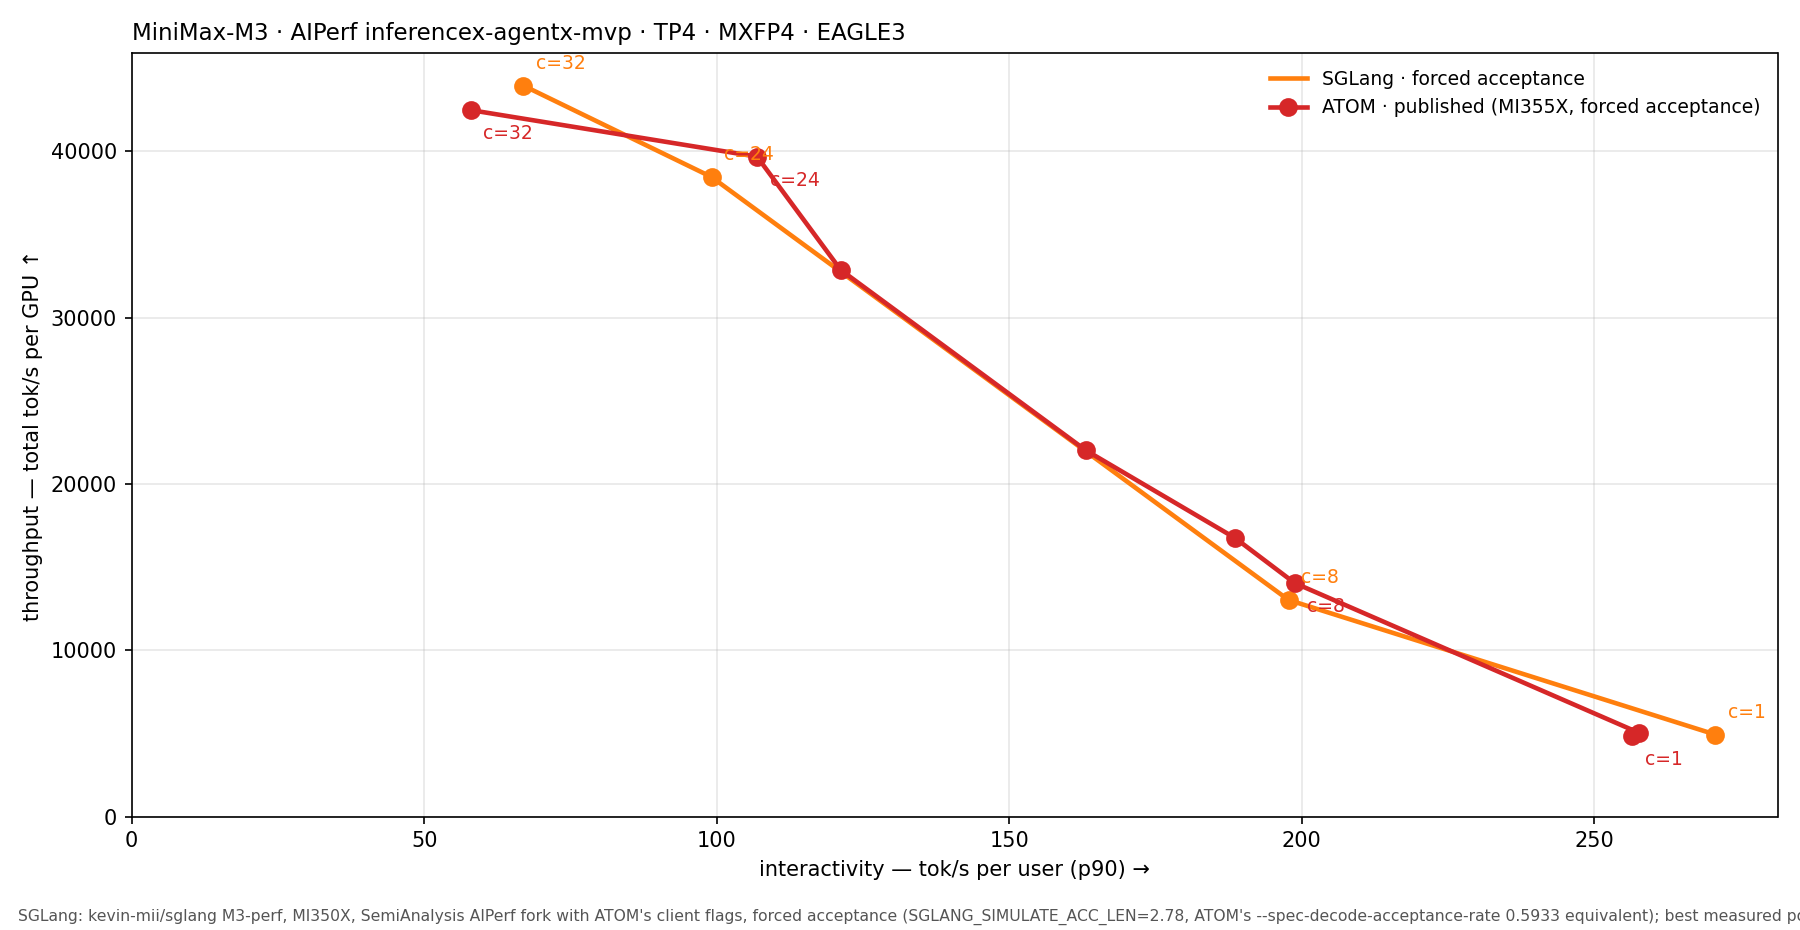
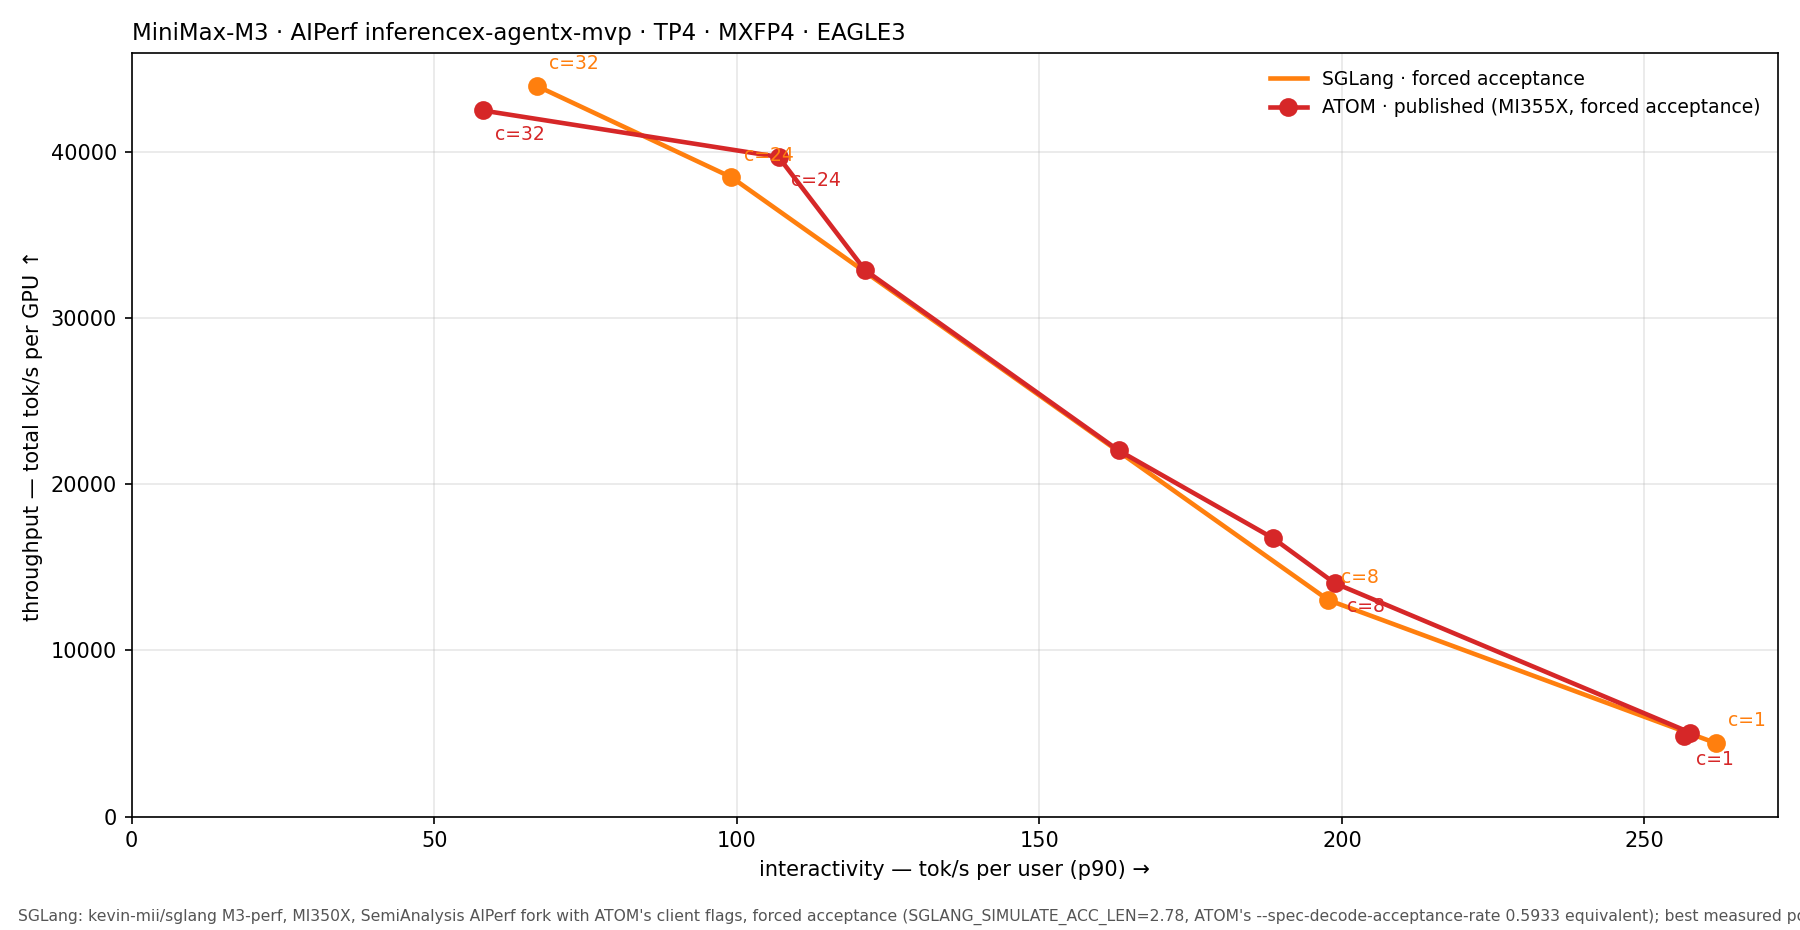
MiniMax-M3 MI355X: forced c=1 at 3600 s (4,425 tok/s/GPU) in the results table and chart
Claude-Session: https://claude.ai/code/session_01MATMHzpi6K7N2zkpo7mZLc

diff --git a/benchmark/minimax_m3_mi355x/OPTIMIZATIONS.md b/benchmark/minimax_m3_mi355x/OPTIMIZATIONS.md
@@ -2,11 +2,11 @@
 
 Benchmark: AIPerf `inferencex-agentx-mvp` (393 SemiAnalysis coding-agent traces, seed 42), SemiAnalysis AIPerf fork at InferenceX's pinned commit 754356e9 with InferenceX/ATOM's client flags (idle cap 300 s, trajectory start 0.25-0.75, 10 warmup requests per lane), TP4 on 4 GPUs. Score = total token throughput (prompt tokens incl. cache hits + completion) per second / 4. Hardware here is MI350X (gfx950, 288 GB, ROCm 7.2.4); ATOM's published figures are MI355X.
 
-## Results (tok/s per GPU; 3600 s runs except the 1800 s real c=1/8 and forced c=1 points)
+## Results (tok/s per GPU; 3600 s runs except the 1800 s real c=1/8 points)
 
 | c | SGLang real acceptance | SGLang forced acceptance (ATOM parity) | ATOM published (forced) |
 |---:|---:|---:|---:|
-| 1 | 3,565 | 4,194 | 4,845 |
+| 1 | 3,565 | 4,425 | 4,845 |
 | 8 | 11,021 | 13,029 | 14,047 |
 | 24 | 34,785 | 38,457 | 39,680 |
 | 32 | 39,083 | 43,956 | 42,476 |
